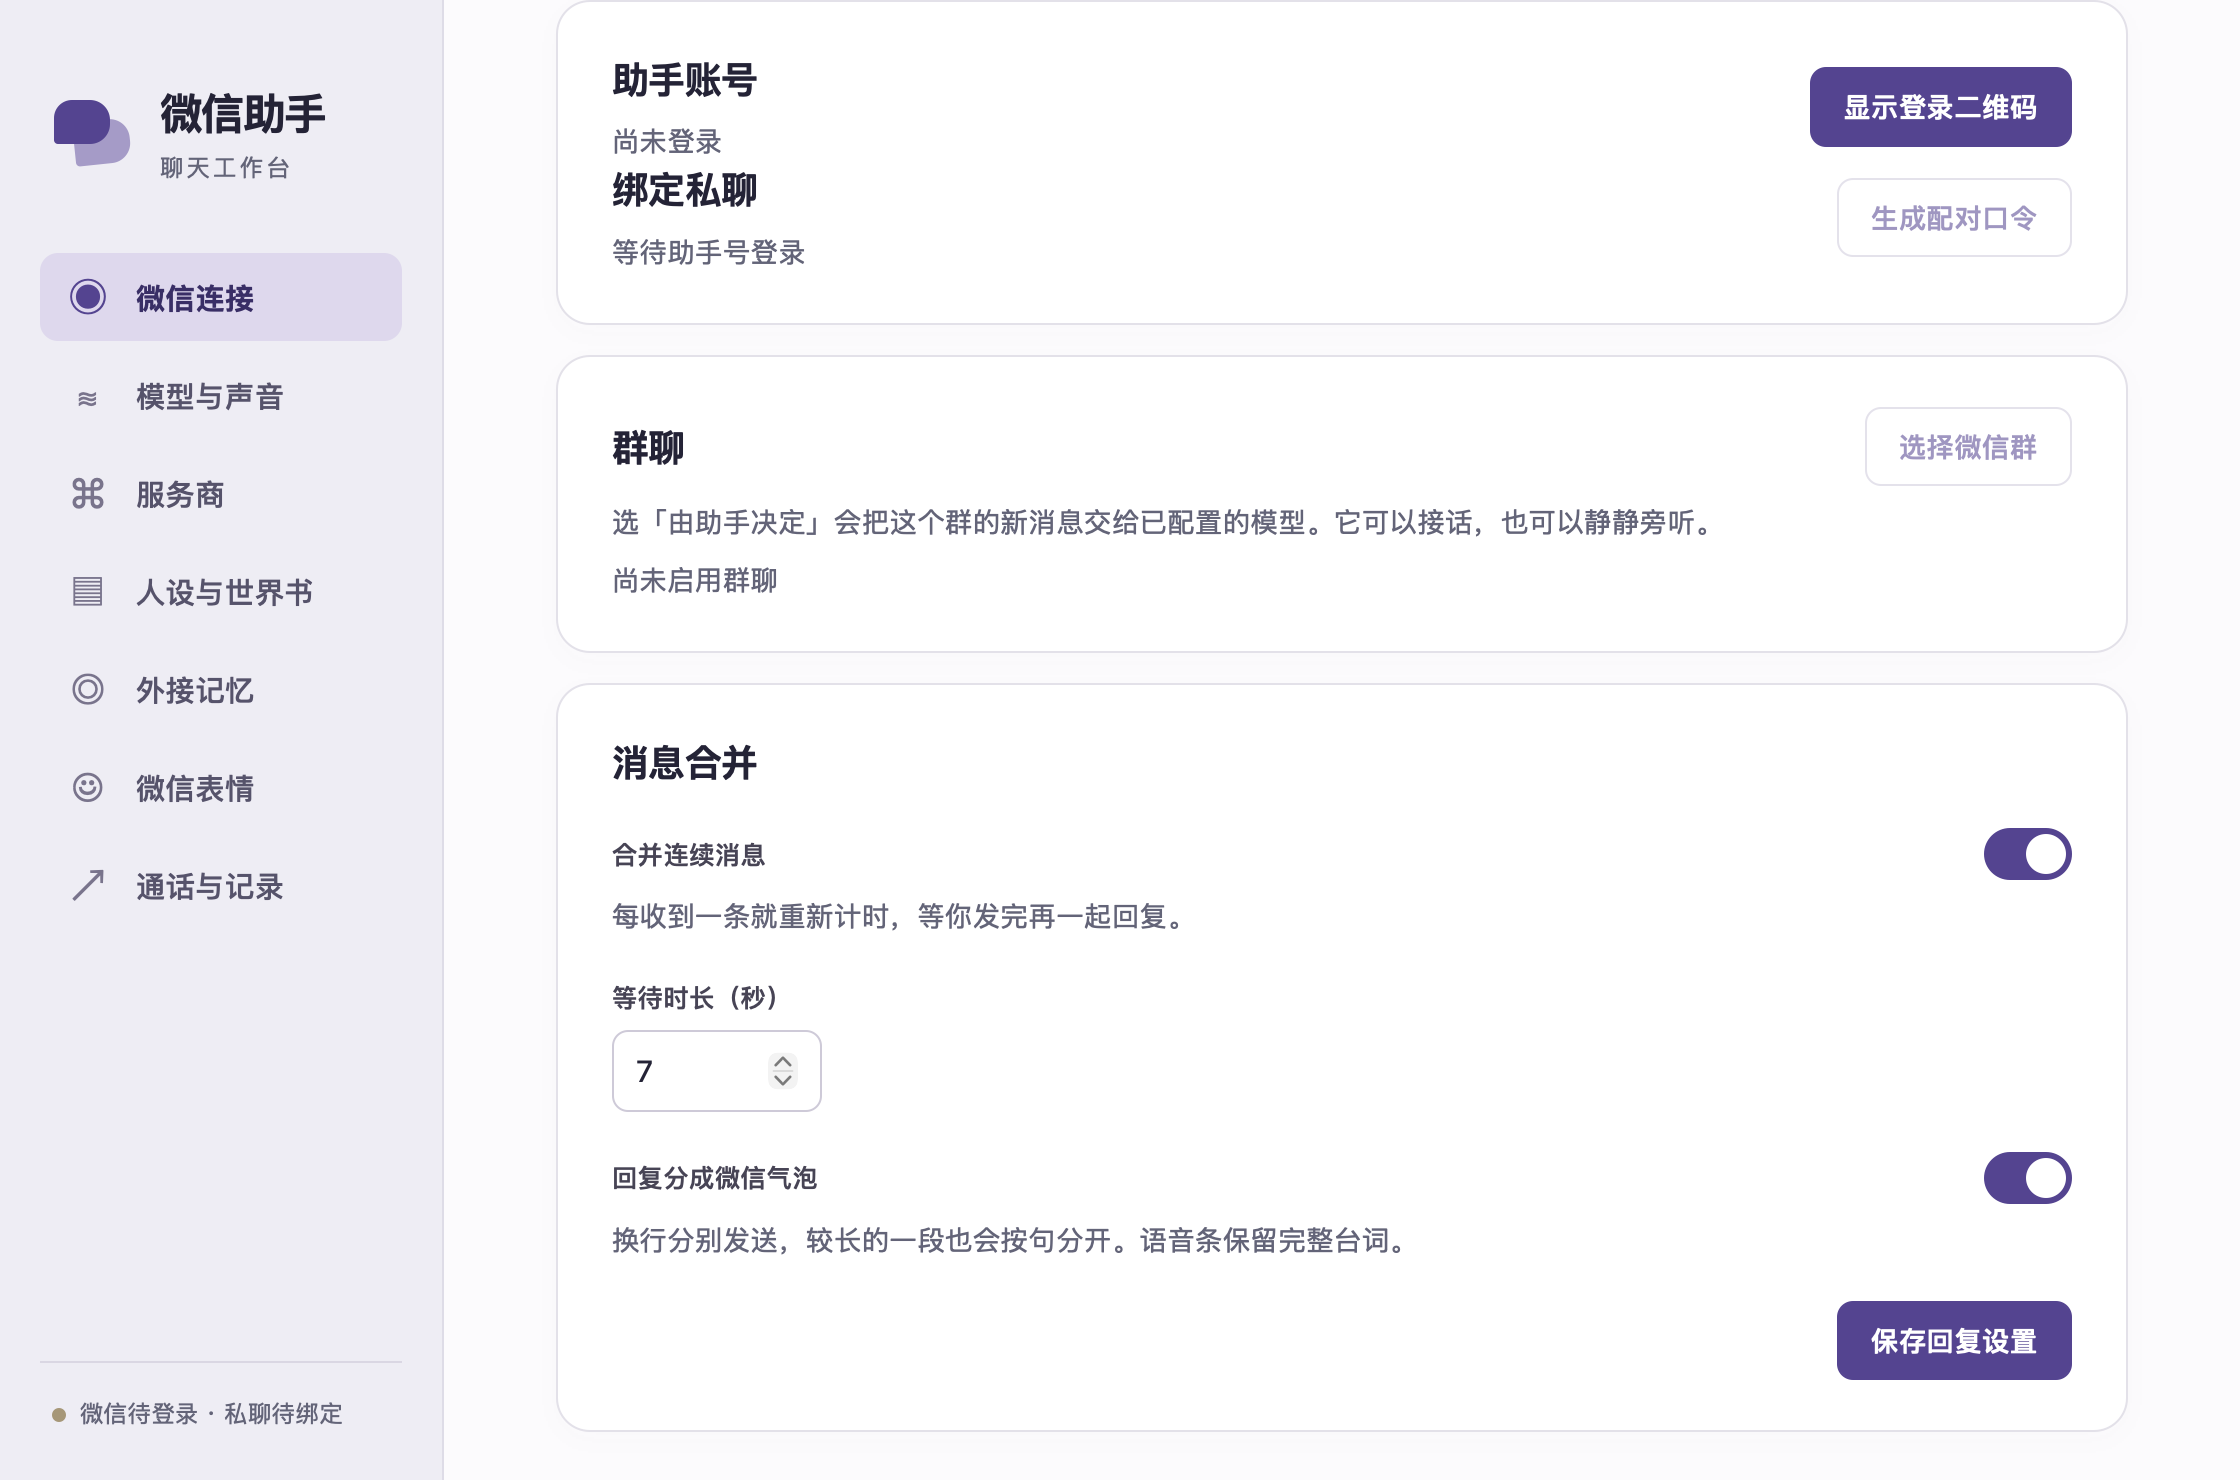
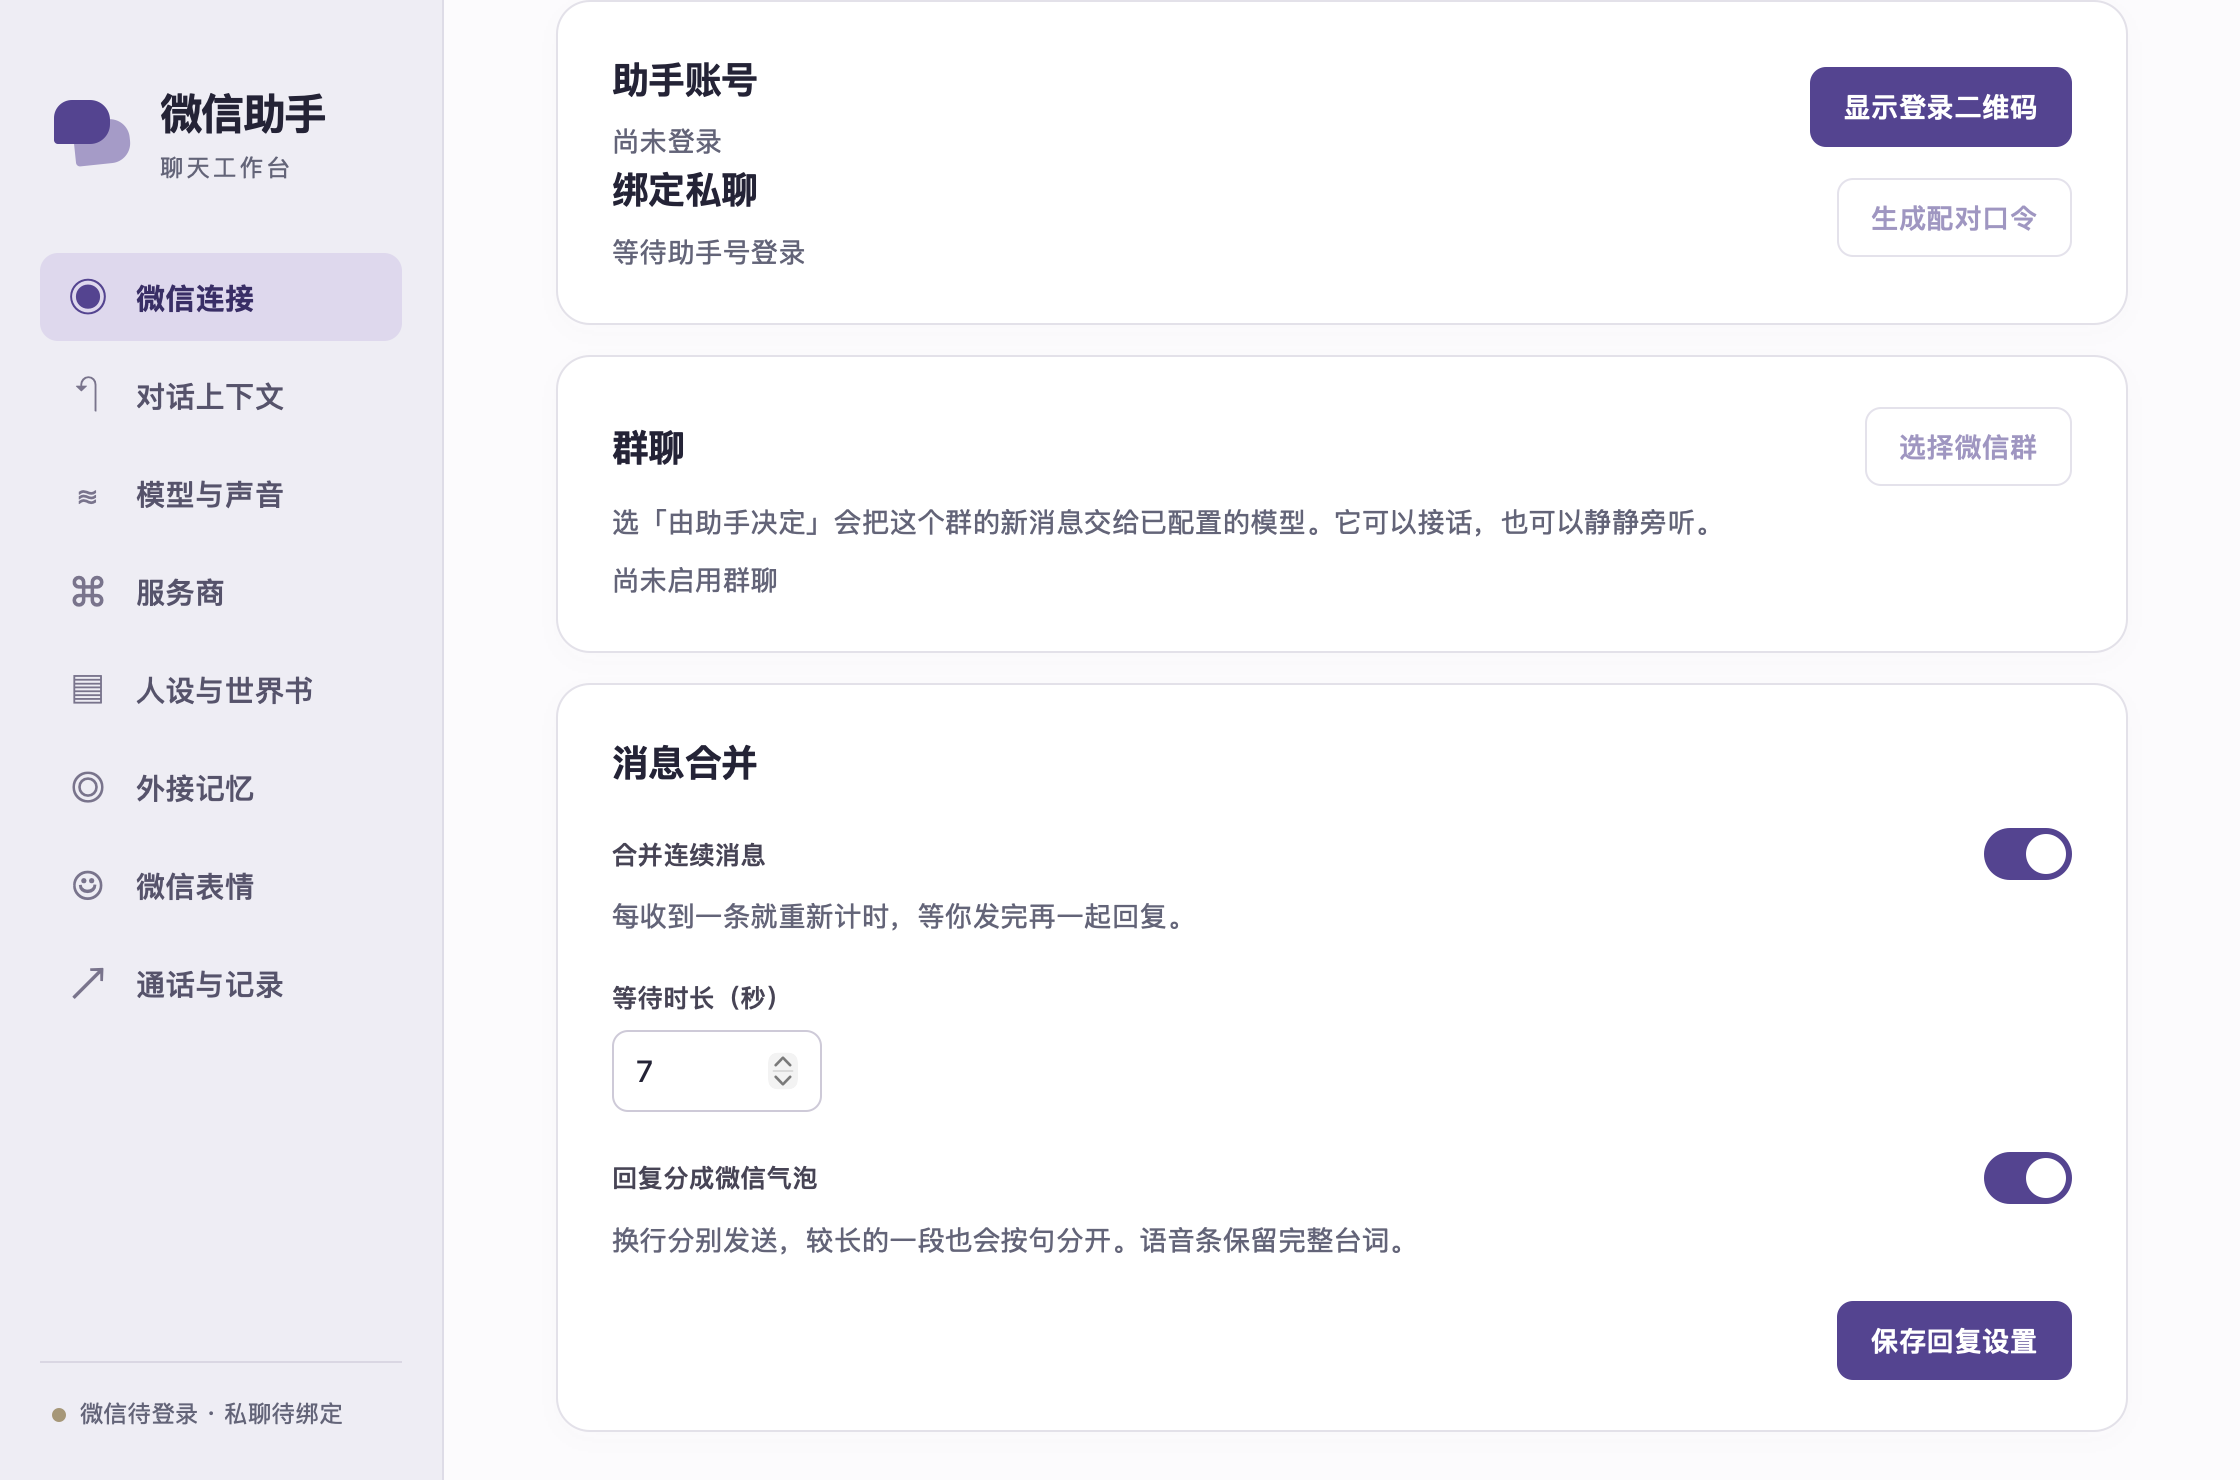
Separate history turn limits from persona and instructions

diff --git a/index.html b/index.html
@@ -4,7 +4,7 @@
 <body><div class="shell">
 <aside class="rail"><div class="brand"><span class="brand-mark" aria-hidden="true"></span><div><strong>微信助手</strong><small>聊天工作台</small></div></div>
 <button type="button" id="menuButton" class="secondary" aria-controls="sections" aria-expanded="false">菜单</button>
-<nav id="sections" aria-label="工作台"><a href="#connect"><i aria-hidden="true">◉</i>微信连接</a><a href="#routes"><i aria-hidden="true">≋</i>模型与声音</a><a href="#providers"><i aria-hidden="true">⌘</i>服务商</a><a href="#profiles"><i aria-hidden="true">▤</i>人设与世界书</a><a href="#memory"><i aria-hidden="true">◎</i>外接记忆</a><a href="#stickers"><i aria-hidden="true">☺</i>微信表情</a><a href="#activity"><i aria-hidden="true">↗</i>通话与记录</a></nav>
+<nav id="sections" aria-label="工作台"><a href="#connect"><i aria-hidden="true">◉</i>微信连接</a><a href="#context"><i aria-hidden="true">↶</i>对话上下文</a><a href="#routes"><i aria-hidden="true">≋</i>模型与声音</a><a href="#providers"><i aria-hidden="true">⌘</i>服务商</a><a href="#profiles"><i aria-hidden="true">▤</i>人设与世界书</a><a href="#memory"><i aria-hidden="true">◎</i>外接记忆</a><a href="#stickers"><i aria-hidden="true">☺</i>微信表情</a><a href="#activity"><i aria-hidden="true">↗</i>通话与记录</a></nav>
 <div class="status" id="summary" role="status">连接中…</div></aside>
 <main><header class="page-head"><h1 id="pageTitle">微信连接</h1><p id="pageDesc">登录助手微信，选择好友和群聊。</p></header>
 <form id="settings" novalidate>
@@ -32,16 +32,22 @@
   <p>换行分别发送，较长的一段也会按句分开。语音条保留完整台词。</p>
   <div class="savebar"><button type="submit">保存回复设置</button></div>
 </div></section>
+<section id="context" class="view" hidden>
+  <div class="card">
+    <label for="historyTurns">每次带入的历史对话轮数</label>
+    <input id="historyTurns" name="history_turns" type="number" min="0" max="100" step="1" inputmode="numeric" required value="30" aria-describedby="historyHelp">
+    <p id="historyHelp">可填 0 到 100 轮。历史不足时带入已有轮数，当前消息另算。填 0 跳过历史。</p>
+    <div class="savebar"><button type="submit">保存轮数</button></div>
+  </div>
+</section>
 <section id="providers" class="view" hidden><div class="toolbar"><button type="button" id="addService">＋ 添加服务商</button></div><div id="services" class="service-list"></div></section>
 <section id="routes" class="view" hidden><div class="route-layout card"><div id="roleMenu" class="role-menu" aria-label="模型用途"></div><div id="moduleRows"></div></div><div class="savebar"><button>保存模型设置</button></div></section>
 <section id="profiles" class="view" hidden><div class="card"><label>聊天配置名称<input name="name" required maxlength="80"></label></div>
-<div class="card"><h2>注入模型的上下文</h2>
-  <label class="space">共同固定上下文<textarea name="pinned_context" maxlength="16000" rows="4" placeholder="每次私聊、群聊和通话都带上的设定"></textarea></label>
-  <label class="space">仅好友私聊和电话<textarea name="private_context" maxlength="16000" rows="3" placeholder="只希望助手和你单独聊天时记住的内容"></textarea></label>
-  <label class="space">最近对话轮数<input name="history_turns" type="number" min="0" max="100" step="1" required value="30"></label>
-  <p>0 到 100 轮。设为 0 仍会带上固定内容、本轮新消息和当前时间。</p>
+<div class="card"><h2>提示词（Prompt）</h2>
+  <label class="space">通用指令<textarea name="pinned_context" maxlength="16000" rows="4" placeholder="用于私聊、群聊和电话的指令"></textarea></label>
+  <label class="space">私聊与电话专用指令<textarea name="private_context" maxlength="16000" rows="3" placeholder="只在与好友单独交流时使用的指令"></textarea></label>
 </div>
-<div id="assets" class="assets"></div><div class="savebar"><button>保存资料选择</button></div></section>
+<div id="assets" class="assets"></div><div class="savebar"><button>保存人设、提示词与世界书</button></div></section>
 <section id="memory" class="view" hidden><div class="card"><div class="section-head"><h2>外部记忆服务</h2><span class="pill" id="memoryState"></span></div>
 <p>登记独立部署的记忆服务地址。当前微信通道尚未接入记忆读写接口。</p>
 <label class="space">服务地址<input type="url" name="memory_url" placeholder="https://memory.example.com" spellcheck="false"></label><div id="legacyMemory"></div></div><div class="savebar"><button>保存服务地址</button></div></section>

diff --git a/panel.css b/panel.css
@@ -11,7 +11,7 @@ label{display:block;color:#474455;font-size:13px;font-weight:620}label small,sma
 @media(max-width:960px){.shell{grid-template-columns:184px minmax(0,1fr)}.rail{padding:30px 12px 18px}main{padding:36px 23px 60px}.route-layout{grid-template-columns:145px minmax(0,1fr)}.subrow{padding:20px 17px}.subrow .grid{grid-template-columns:minmax(0,1fr)}}
 @media(max-width:700px){.shell{display:block}.rail{position:relative;height:auto;display:grid;grid-template-columns:1fr auto;gap:8px;align-items:center;padding:13px 17px;border:0;border-bottom:1px solid var(--line)}.brand{padding:0;gap:8px}.brand>div{display:flex;gap:10px;align-items:baseline}.brand strong{font-size:18px}.brand small{font-size:11px}.brand-mark{transform:scale(.77);width:32px;margin-left:-3px}#menuButton{display:block}.rail nav{display:none;grid-column:1/-1;grid-template-columns:1fr 1fr}.rail.menu-open nav{display:grid}.status{grid-column:1/-1;margin:0;padding:0;border:0;font-size:11px}.rail nav a{padding:7px 8px}main{padding:24px 15px 52px}.page-head{margin-bottom:20px}.page-head p{font-size:13px}.card,.service-list .row{padding:18px}.route-layout{display:block;padding:0;min-height:0}.role-menu{display:flex;flex-flow:row wrap;border-right:0;border-bottom:1px solid var(--line);gap:4px;padding:9px}.role-menu button{padding:7px 9px;font-size:13px}.role-menu small{display:none}.subrow{padding:19px}.grid{grid-template-columns:minmax(0,1fr)}.row,.section-head{flex-wrap:wrap}.asset-controls{flex-wrap:wrap}.asset-controls label{flex-basis:100%}input,select,textarea{font-size:16px}.savebar>button{width:100%}.status.online:before{height:6px;width:6px}}
 select{appearance:none;min-height:40px;padding-right:28px;background-image:linear-gradient(45deg,transparent 50%,#78738a 50%),linear-gradient(135deg,#78738a 50%,transparent 50%);background-position:calc(100% - 15px) 50%,calc(100% - 11px) 50%;background-size:4px 4px;background-repeat:no-repeat}.grid:has(>.route-help){grid-template-columns:minmax(0,1fr);gap:6px}.route-help p{margin:0;font-size:13px}
-#mergeSeconds { width: 7em; }
+#mergeSeconds, #historyTurns { width: 7em; }
 .group-list { display: grid; gap: .6rem; }
 .group-list label { display: grid; grid-template-columns: minmax(0,1fr) minmax(9em,13em); align-items: center; gap: .7rem; overflow-wrap: anywhere; }
 .group-list select { margin: 0; min-width: 0; }

diff --git a/panel.js b/panel.js
@@ -8,9 +8,10 @@ let selectedRole=sessionStorage.getItem("wx-role")||"asr";
 if(!Object.hasOwn(fields,selectedRole))selectedRole="asr";
 const pages={
   connect:["微信连接","登录助手微信，选择好友和群聊。"],
+  context:["对话上下文","每次回复前，从当前会话带上最近几轮聊天。合并处理的几条微信算一轮。"],
   routes:["模型与声音","为每种用途选择实际处理它的服务。"],
   providers:["服务商","管理接口地址、凭据和可用模型。"],
-  profiles:["人设与世界书","设置人设、世界书和每次发给模型的上下文。"],
+  profiles:["人设与世界书","设置助手的人设、提示词和背景资料。"],
   memory:["外接记忆","管理微信通道与独立记忆系统的连接配置。"],
   stickers:["微信表情","管理助手能发出的表情，以及收到表情时的识别方式。"],
   activity:["通话与记录","发起微信电话，查看语音和消息的投递情况。"]

diff --git a/call_channel.py b/call_channel.py
@@ -321,13 +321,25 @@ def end_decision(answer):
     return words, "助手已道别" if marked and words else ""
 
 
+def recent_call_turns(history, limit):
+    """An interrupted reply can leave a user turn with no assistant message."""
+    start = len(history)
+    for index in range(len(history) - 1, -1, -1):
+        if limit <= 0:
+            break
+        if history[index]["role"] == "user":
+            start = index
+            limit -= 1
+    return history[start:]
+
+
 def call_messages(cfg, history, current, *, now=None):
     prompt = ("这是一通已接通的微信语音电话。你收到的文字是对方刚才讲话的转写，语气标签供你参考。"
               "你的回答会从对方的听筒播出。用一两句自然的口语回应。"
               "你可以自己挂断这通电话。想继续聊就正常说话。想结束就自然地道别，"
               "最后单独写一行 "+END_MARK+"，后台会在你说完后挂断。")
-    limit=2*cfg.get("history_turns",st.DEFAULT["history_turns"])
-    return conversation_prompt.build(cfg,prompt,history[-limit:] if limit else [],current,now=now,private=True)
+    limit=cfg.get("history_turns",st.DEFAULT["history_turns"])
+    return conversation_prompt.build(cfg,prompt,recent_call_turns(history,limit),current,now=now,private=True)
 
 
 async def conversation(signal,media,ready,cfg,flag,greeting=None,*,own_control=True,history=None):
@@ -529,14 +541,11 @@ async def conversation(signal,media,ready,cfg,flag,greeting=None,*,own_control=T
             if totals["sent"]>sent_before:
                 fragments.clear()
                 history.append(msg)
+                if complete:
+                    history.append({"role":"assistant","content":answer})
+                history[:]=recent_call_turns(history,cfg.get("history_turns",st.DEFAULT["history_turns"]))
             if not complete: continue
             totals["replies"]+=1
-            history.append({"role":"assistant","content":answer})
-            limit=2*cfg.get("history_turns",st.DEFAULT["history_turns"])
-            if limit:
-                del history[:-limit]
-            else:
-                history.clear()
             if cfg.get("_peer"):
                 await asyncio.to_thread(st.remember_call_line,cfg["_peer"],msg["content"],answer)
             if finish:

diff --git a/test_calls.py b/test_calls.py
@@ -31,6 +31,20 @@ class Socket:
 
 
 class DirectCallTests(unittest.IsolatedAsyncioTestCase):
+    def test_history_counts_user_turns_when_a_spoken_reply_is_interrupted(self):
+        history = [
+            {"role":"user","content":"第一轮"},
+            {"role":"assistant","content":"第一轮的回答"},
+            {"role":"user","content":"第二轮，回答被打断"},
+            {"role":"user","content":"第三轮"},
+            {"role":"assistant","content":"第三轮的回答"},
+        ]
+        for limit, expected in ((0, []), (1, history[3:]), (2, history[2:]), (3, history)):
+            with self.subTest(limit=limit):
+                messages=calls.call_messages({"history_turns":limit},history,"当前这轮")
+                self.assertEqual(messages[1:-1],expected)
+                self.assertIn("当前这轮",messages[-1]["content"])
+
     def test_hangup_is_an_explicit_action(self):
         self.assertEqual(calls.end_decision("明天听你说下半段。晚安\n[[END_CALL]]"),
                          ("明天听你说下半段。晚安","助手已道别"))

diff --git a/conversation_prompt.py b/conversation_prompt.py
@@ -24,9 +24,9 @@ def build(cfg, instructions, history, current, notes=(), *, now=None, private=Fa
     if fixed:
         settings.append("常驻背景\n" + fixed)
     if cfg.get("pinned_context"):
-        settings.append("固定上下文\n" + cfg["pinned_context"])
+        settings.append("通用指令\n" + cfg["pinned_context"])
     if private and cfg.get("private_context"):
-        settings.append("私聊固定上下文\n" + cfg["private_context"])
+        settings.append("私聊与电话专用指令\n" + cfg["private_context"])
     settings.append("文末时间和通道附注由系统提供。")
     settings.append(instructions)
 

diff --git a/panel.py b/panel.py
@@ -124,7 +124,7 @@ def save_profile(data):
         if not 0 <= cfg["history_turns"] <= st.MAX_HISTORY_TURNS:
             raise ValueError("最近对话轮数须在 0 到 %d 之间"%st.MAX_HISTORY_TURNS)
         if max(len(cfg["pinned_context"]),len(cfg["private_context"]))>16000:
-            raise ValueError("每段固定上下文最多 16,000 字符")
+            raise ValueError("每段提示词最多 16,000 字符")
         if not 0 < cfg["merge_wait_seconds"] < 2**53:
             raise ValueError("等待时长须为有效的正整数秒")
         library=st.get(db,"library",{})

diff --git a/README.md b/README.md
@@ -10,7 +10,9 @@
 
 在「微信连接 → 群聊 → 选择微信群」启用助手已加入的群。选「由助手决定」，每批新消息会连同发言者和本群近期对话交给配置的模型，它可以接话或保持安静。选「仅 @助手 时参与」，普通消息保留为本群上下文，直接 @ 助手时才调用模型。每个群初始都是关闭的。
 
-在「人设与世界书」里可以编辑每轮都注入的共同固定上下文，也可以单独填写仅好友私聊和电话使用的背景。群聊和私聊共用人设、世界书、音色和账号表情，各自带入近期对话，默认 30 轮，可调到 0 至 100 轮。
+在「对话上下文」设置每次带入最近多少轮历史，默认 30 轮，可调 0 至 100 轮。当前这轮另算。群聊使用各自群里的历史，好友私聊和与该好友的电话共享历史。
+
+在「人设与世界书 → 提示词（Prompt）」填写通用指令，以及仅用于好友私聊和电话的指令。
 
 「回复分成微信气泡」默认开启。普通文字里的换行会分条发送，较长的段落也会按句拆开。一段连续文字最多拆成六个气泡，多出的文字并入最后一条。代码块和表格保留原格式，语音台词整条合成。
 
